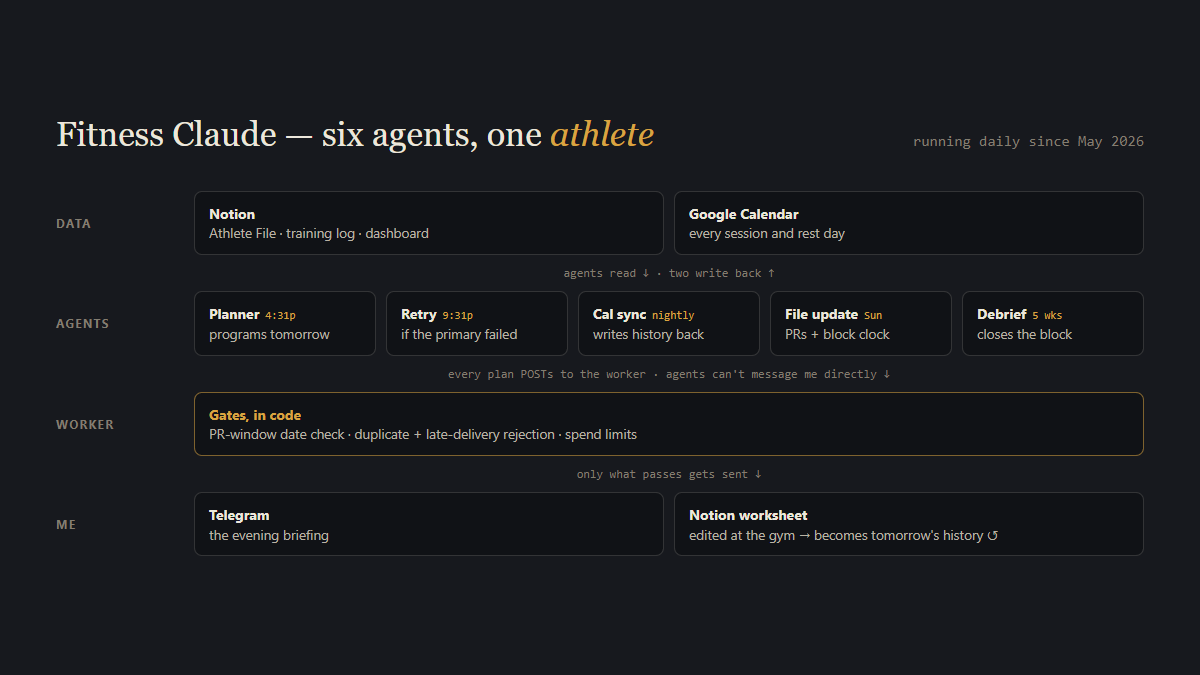
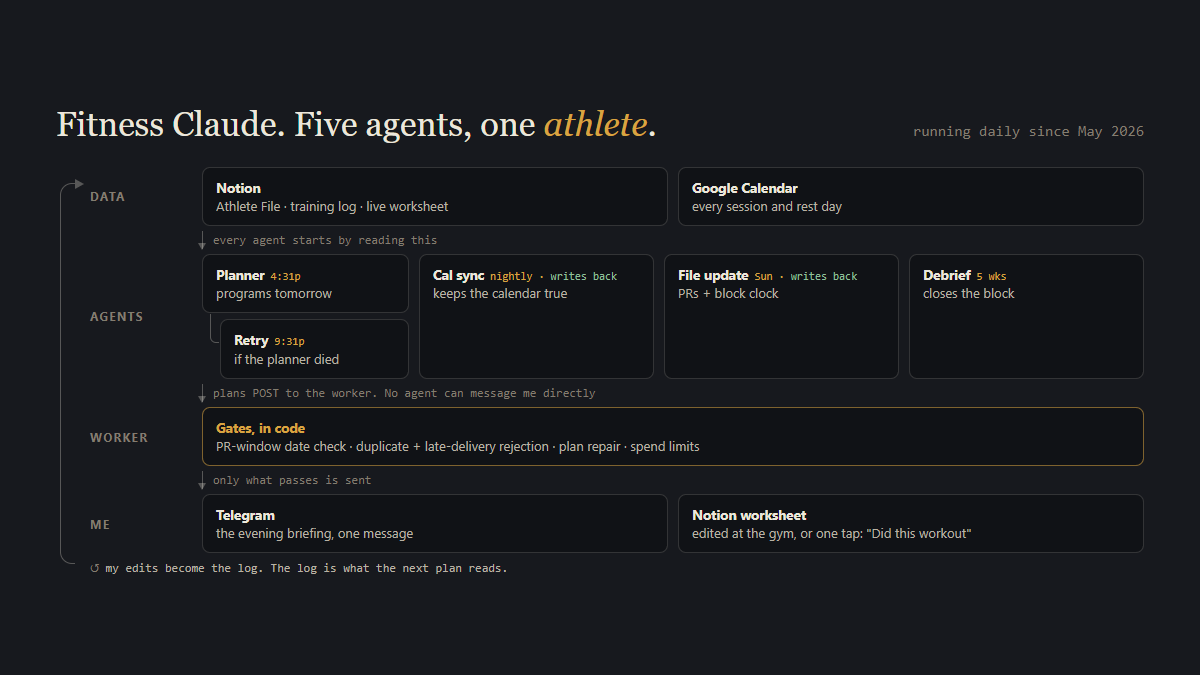
Redesign the architecture diagram, update gates and add eval notes
The diagram is now one vertical pipeline with drawn connectors and a
return rail that closes the loop from worksheet edits back to the data
layer. Retry nests under the planner. Write-back agents carry a tag on
the mark instead of a glyph. Agent count corrected from six to five.
Gates box gains plan repair. New notes cover the edit-timestamp rule
and the fifteen-scenario eval. LinkedIn architecture image regenerated
to match.

diff --git a/how-its-built.html b/how-its-built.html
@@ -4,7 +4,7 @@
 <meta charset="utf-8">
 <meta name="viewport" content="width=device-width, initial-scale=1">
 <title>How it's built · Daily Coach</title>
-<meta name="description" content="The architecture: six scheduled Claude agents, Notion as the data layer, and a worker that enforces the rules in code.">
+<meta name="description" content="The architecture: five scheduled Claude agents, Notion as the data layer, and a worker that enforces the rules in code.">
 <style>
   :root {
     --bg: #17191e;
@@ -15,6 +15,7 @@
     --apricot: #d9a441;
     --mint: #8fbf9a;
     --line: rgba(236, 231, 219, .13);
+    --rail: rgba(236, 231, 219, .28);
     --mono: ui-monospace, SFMono-Regular, "Cascadia Code", Consolas, monospace;
     --serif: Charter, "Bitstream Charter", Georgia, "Times New Roman", serif;
     --sans: -apple-system, BlinkMacSystemFont, "Segoe UI", Roboto, Helvetica, Arial, sans-serif;
@@ -29,21 +30,46 @@
   h1 { font-family: var(--serif); font-weight: 500; font-size: clamp(30px, 5.6vw, 40px); line-height: 1.18; margin-bottom: 12px; }
   .lede { font-size: 16.5px; color: var(--soft); max-width: 620px; }
 
-  .diagram { margin: 34px 0 6px; border: 1px solid var(--line); border-radius: 8px; padding: 18px; background: rgba(0,0,0,.16); }
-  .d-band { display: grid; grid-template-columns: 118px 1fr; gap: 14px; align-items: start; }
-  @media (max-width: 560px) { .d-band { grid-template-columns: 1fr; gap: 6px; } }
-  .d-label { font-size: 11px; letter-spacing: .1em; text-transform: uppercase; color: var(--dim); font-weight: 700; padding-top: 10px; }
-  .d-boxes { display: flex; flex-wrap: wrap; gap: 8px; }
-  .d-box {
-    background: var(--panel); border: 1px solid var(--line); border-radius: 6px;
-    padding: 8px 12px; font-size: 12.5px; color: var(--soft); flex: 1 1 150px; line-height: 1.45;
+  /* ── Diagram: one vertical pipeline, one return rail ─────────────── */
+  .diagram { margin: 34px 0 6px; border: 1px solid var(--line); border-radius: 8px; background: rgba(0,0,0,.16); padding: 22px 20px 22px 44px; position: relative; }
+
+  /* return rail: athlete band back up to the data band */
+  .d-rail { position: absolute; left: 15px; width: 13px; top: 46px; bottom: 64px; border: 1px solid var(--rail); border-right: 0; border-radius: 10px 0 0 10px; }
+  .d-rail::before { /* arrowhead entering the data band */
+    content: ""; position: absolute; top: -5px; right: -8px;
+    border-left: 8px solid var(--rail); border-top: 4.5px solid transparent; border-bottom: 4.5px solid transparent;
   }
+
+  .d-stage { margin: 0; }
+  .d-head { font-size: 11px; letter-spacing: .14em; text-transform: uppercase; color: var(--dim); font-weight: 700; margin-bottom: 8px; }
+  .d-head em { font-style: normal; color: var(--mint); letter-spacing: 0; text-transform: none; font-family: var(--mono); font-weight: 400; font-size: 11px; margin-left: 8px; }
+
+  .d-row { display: grid; grid-template-columns: 1fr 1fr; gap: 8px; }
+  @media (max-width: 520px) { .d-row { grid-template-columns: 1fr; } }
+  .d-box { background: var(--panel); border: 1px solid var(--line); border-radius: 6px; padding: 9px 12px; font-size: 12.5px; color: var(--soft); line-height: 1.45; }
   .d-box b { display: block; color: var(--cream); font-size: 12.5px; }
-  .d-box b small { color: var(--apricot); font-family: var(--mono); font-size: 10.5px; font-weight: 400; margin-left: 6px; }
-  .d-box.gate { border-color: rgba(217, 164, 65, .45); }
-  .d-box.gate b { color: var(--apricot); }
-  .d-arrow { text-align: center; padding: 8px 0; }
-  .d-arrow span { font-size: 11.5px; color: var(--dim); font-family: var(--mono); }
+
+  /* agents: one aligned list, schedule chip on the right */
+  .d-agents { display: grid; gap: 6px; }
+  .d-agent { display: grid; grid-template-columns: 1fr auto; gap: 4px 12px; align-items: baseline; background: var(--panel); border: 1px solid var(--line); border-radius: 6px; padding: 8px 12px; }
+  .d-agent b { color: var(--cream); font-size: 12.5px; font-weight: 600; }
+  .d-agent .desc { grid-column: 1 / -1; font-size: 12.5px; color: var(--soft); line-height: 1.45; }
+  .d-agent .when { font-family: var(--mono); font-size: 10.5px; color: var(--apricot); white-space: nowrap; }
+  .d-agent.sub { margin-left: 22px; position: relative; }
+  .d-agent.sub::before { content: ""; position: absolute; left: -13px; top: -8px; bottom: 50%; width: 9px; border-left: 1px solid var(--rail); border-bottom: 1px solid var(--rail); border-radius: 0 0 0 6px; }
+  .d-agent .tag { font-family: var(--mono); font-size: 10.5px; color: var(--mint); }
+
+  /* connectors: a drawn line + arrowhead, label beside it */
+  .d-link { display: flex; align-items: center; gap: 10px; padding: 7px 0 7px 2px; }
+  .d-link i { position: relative; width: 1px; height: 26px; background: var(--rail); display: block; flex: none; margin-left: 9px; }
+  .d-link i::after { content: ""; position: absolute; bottom: -1px; left: -4.5px; border-top: 7px solid var(--rail); border-left: 4.5px solid transparent; border-right: 4.5px solid transparent; }
+  .d-link span { font-size: 11.5px; color: var(--dim); font-family: var(--mono); line-height: 1.4; }
+
+  .d-box.gate, .d-agent.gate { border-color: rgba(217, 164, 65, .45); }
+  .gate b { color: var(--apricot); }
+
+  .d-loop { margin-top: 10px; font-family: var(--mono); font-size: 11.5px; color: var(--dim); line-height: 1.5; }
+  .d-loop b { color: var(--soft); font-weight: 400; }
 
   .notes { margin-top: 30px; }
   .notes p { font-family: var(--serif); font-size: 16px; color: var(--soft); line-height: 1.7; margin-bottom: 14px; }
@@ -65,48 +91,57 @@
 
 <header>
   <h1>How it's built</h1>
-  <p class="lede">Six scheduled Claude agents, each owning one job, coordinating through Notion. Nothing reaches the athlete's phone except through a worker that enforces the rules in code.</p>
+  <p class="lede">Five scheduled Claude agents, each owning one job, coordinating through Notion. Nothing reaches the athlete's phone except through a worker that enforces the rules in code. The whole thing is a loop. What you do today is what tomorrow's plan is built from.</p>
 </header>
 
-<div class="diagram">
-  <div class="d-band">
-    <div class="d-label">Data</div>
-    <div class="d-boxes">
-      <div class="d-box"><b>Notion</b>Athlete File · training log · dashboard</div>
+<div class="diagram" role="img" aria-label="Pipeline diagram: a Notion and Google Calendar data layer is read by five scheduled agents; their plans pass through a worker that enforces rules in code; only what passes reaches the athlete by Telegram and a Notion worksheet, and the athlete's worksheet edits flow back into the data layer.">
+  <div class="d-rail" aria-hidden="true"></div>
+
+  <div class="d-stage">
+    <div class="d-head">Data</div>
+    <div class="d-row">
+      <div class="d-box"><b>Notion</b>Athlete File · training log · live worksheet</div>
       <div class="d-box"><b>Google Calendar</b>every session and rest day</div>
     </div>
   </div>
-  <div class="d-arrow"><span>agents read ↓ · two write back ↑</span></div>
-  <div class="d-band">
-    <div class="d-label">Agents</div>
-    <div class="d-boxes">
-      <div class="d-box"><b>Daily planner<small>evening</small></b>programs tomorrow from the file + 14 days of logs</div>
-      <div class="d-box"><b>Retry<small>+5 hrs</small></b>re-runs if the primary failed</div>
-      <div class="d-box"><b>Calendar sync<small>nightly ↑</small></b>writes sessions to the calendar</div>
-      <div class="d-box"><b>File update<small>Sun ↑</small></b>rescans the week, updates PRs and the block clock</div>
-      <div class="d-box"><b>Block debrief<small>5 wks</small></b>closes out each training block</div>
+
+  <div class="d-link"><i></i><span>every agent starts by reading this</span></div>
+
+  <div class="d-stage">
+    <div class="d-head">Agents <em>writes back = direct data access</em></div>
+    <div class="d-agents">
+      <div class="d-agent"><b>Daily planner</b><span class="when">4:30 pm</span><span class="desc">programs tomorrow from the file and 14 days of logs</span></div>
+      <div class="d-agent sub"><b>Retry</b><span class="when">+5 hrs</span><span class="desc">runs the same job if the planner died quietly</span></div>
+      <div class="d-agent"><b>Calendar sync</b><span class="when">nightly · <span class="tag">writes back</span></span><span class="desc">keeps the calendar matching what was actually trained</span></div>
+      <div class="d-agent"><b>File update</b><span class="when">Sundays · <span class="tag">writes back</span></span><span class="desc">rescans the week, updates PRs and the block clock</span></div>
+      <div class="d-agent"><b>Block debrief</b><span class="when">every 5 wks</span><span class="desc">closes out each training block</span></div>
     </div>
   </div>
-  <div class="d-arrow"><span>every plan POSTs to the worker. agents can't message the athlete directly ↓</span></div>
-  <div class="d-band">
-    <div class="d-label">Worker</div>
-    <div class="d-boxes">
-      <div class="d-box gate"><b>Gates, in code</b>PR-window date check · duplicate and late-delivery rejection · spend limits</div>
+
+  <div class="d-link"><i></i><span>plans POST to the worker. No agent can message the athlete directly</span></div>
+
+  <div class="d-stage">
+    <div class="d-head">Worker</div>
+    <div class="d-agent gate"><b>Gates, in code</b><span class="when">every send</span><span class="desc">PR-window date check · duplicate and late-delivery rejection · plan repair for dropped required blocks · 7-block cap · spend limits</span></div>
+  </div>
+
+  <div class="d-link"><i></i><span>only what passes is sent</span></div>
+
+  <div class="d-stage">
+    <div class="d-head">Athlete</div>
+    <div class="d-row">
+      <div class="d-box"><b>Telegram</b>the evening briefing, one message</div>
+      <div class="d-box"><b>Notion worksheet</b>edit it at the gym, or one tap: "Did this workout"</div>
     </div>
   </div>
-  <div class="d-arrow"><span>only what passes gets sent ↓</span></div>
-  <div class="d-band">
-    <div class="d-label">Athlete</div>
-    <div class="d-boxes">
-      <div class="d-box"><b>Telegram</b>the evening briefing</div>
-      <div class="d-box"><b>Notion worksheet</b>edited at the gym. It becomes tomorrow's history. ↺</div>
-    </div>
-  </div>
+
+  <div class="d-loop">↺ <b>worksheet edits become the confirmed log. The log is what the next plan reads.</b></div>
 </div>
 
 <div class="notes">
   <p><b>Grounding over prompting.</b> The planner works from an Athlete File: profile, working weights, injury state, current training block. A second agent keeps that file current by rescanning the logs weekly. The daily calendar sync exists so the planner always knows what day it is and what was actually trained.</p>
-  <p><b>The model proposes, code disposes.</b> Safety-relevant rules are not trusted to the model. A deterministic worker re-checks PR timing against dated windows, rejects duplicate or late deliveries, and caps spend. If a plan violates a rule, the flag is stripped before anything is sent.</p>
+  <p><b>The model proposes, code disposes.</b> Safety-relevant rules are not trusted to the model. A deterministic worker re-checks PR timing against dated windows, rejects duplicate or late deliveries, restores required exercises a plan dropped, and caps spend. The model never has to guess whether the athlete trained yesterday. Edit timestamps on the worksheet answer that.</p>
+  <p><b>Tested like software.</b> Fifteen eval scenarios run before any prompt or model change ships. Each one is rebuilt from a real mistake the system once made. The suite taught an honest lesson on its first day. Every reasoning scenario passed while production failed in layers the tests never touched, like stale data and duplicate sends. New scenarios now come from real incidents, and the deterministic gates outrank the eval.</p>
   <p><b>The demo on the front page</b> runs the same programming rules against a generic profile. Its 80 input combinations are pregenerated, so the demo has zero moving parts.</p>
 </div>
 

diff --git a/assets/li-architecture.html b/assets/li-architecture.html
@@ -4,63 +4,89 @@
   body {
     width: 1200px; height: 675px; background: #17191e; color: #ece7db;
     font-family: -apple-system, BlinkMacSystemFont, "Segoe UI", Roboto, Arial, sans-serif;
-    padding: 44px 56px; overflow: hidden;
+    padding: 40px 56px 34px; overflow: hidden;
     display: flex; flex-direction: column; justify-content: center;
   }
-  .band { margin: 4px 0; }
-  .top { display: flex; justify-content: space-between; align-items: baseline; margin-bottom: 34px; }
+  .top { display: flex; justify-content: space-between; align-items: baseline; margin-bottom: 24px; }
   .title { font-family: Charter, Georgia, serif; font-size: 34px; }
   .title em { font-style: italic; color: #d9a441; }
   .sub { font-size: 15px; color: #837d70; font-family: Consolas, monospace; }
-  .band { display: grid; grid-template-columns: 120px 1fr; gap: 18px; align-items: center; }
+
+  .diag { position: relative; padding-left: 34px; }
+  .rail { position: absolute; left: 4px; top: 16px; bottom: 12px; width: 15px;
+    border: 1px solid rgba(236,231,219,.3); border-right: 0; border-radius: 12px 0 0 12px; }
+  .rail::before { content: ""; position: absolute; top: -5px; right: -9px;
+    border-left: 9px solid rgba(236,231,219,.3); border-top: 5px solid transparent; border-bottom: 5px solid transparent; }
+
+  .band { display: grid; grid-template-columns: 96px 1fr; gap: 16px; align-items: center; }
   .label { font-size: 12px; letter-spacing: .1em; text-transform: uppercase; color: #837d70; font-weight: 700; }
-  .boxes { display: flex; gap: 10px; }
+  .boxes { display: flex; gap: 10px; align-items: stretch; }
   .box {
     background: #101216; border: 1px solid rgba(236,231,219,.16); border-radius: 8px;
-    padding: 12px 14px; font-size: 13.5px; color: #b9b2a4; flex: 1; line-height: 1.4;
+    padding: 10px 13px; font-size: 13px; color: #b9b2a4; flex: 1; line-height: 1.4;
   }
-  .box b { display: block; color: #ece7db; font-size: 14px; }
+  .box b { display: block; color: #ece7db; font-size: 13.5px; }
   .box b small { color: #d9a441; font-family: Consolas, monospace; font-size: 11px; font-weight: 400; margin-left: 6px; }
+  .box b small i { font-style: normal; color: #8fbf9a; }
   .box.gate { border-color: rgba(217,164,65,.55); }
   .box.gate b { color: #d9a441; }
-  .arrow { text-align: center; padding: 7px 0 7px 138px; font-size: 12px; color: #837d70; font-family: Consolas, monospace; }
+  .pair { flex: 1; display: flex; flex-direction: column; gap: 6px; }
+  .pair .box { flex: none; }
+  .pair .box.sub2 { margin-left: 18px; position: relative; }
+  .pair .box.sub2::before { content: ""; position: absolute; left: -11px; top: -6px; bottom: 60%; width: 8px;
+    border-left: 1px solid rgba(236,231,219,.3); border-bottom: 1px solid rgba(236,231,219,.3); border-radius: 0 0 0 6px; }
+
+  .arrow { display: flex; align-items: center; gap: 10px; padding: 5px 0 5px 112px; }
+  .arrow i { position: relative; width: 1px; height: 18px; background: rgba(236,231,219,.3); display: block; flex: none; }
+  .arrow i::after { content: ""; position: absolute; bottom: -1px; left: -4.5px;
+    border-top: 7px solid rgba(236,231,219,.3); border-left: 4.5px solid transparent; border-right: 4.5px solid transparent; }
+  .arrow span { font-size: 12px; color: #837d70; font-family: Consolas, monospace; }
+
+  .loop { margin-top: 8px; font-size: 12px; color: #837d70; font-family: Consolas, monospace; }
+  .loop b { color: #b9b2a4; font-weight: 400; }
 </style></head>
 <body>
   <div class="top">
-    <div class="title">Fitness Claude — six agents, one <em>athlete</em></div>
+    <div class="title">Fitness Claude. Five agents, one <em>athlete</em>.</div>
     <div class="sub">running daily since May 2026</div>
   </div>
-  <div class="band">
-    <div class="label">Data</div>
-    <div class="boxes">
-      <div class="box"><b>Notion</b>Athlete File · training log · dashboard</div>
-      <div class="box"><b>Google Calendar</b>every session and rest day</div>
+  <div class="diag">
+    <div class="rail"></div>
+    <div class="band">
+      <div class="label">Data</div>
+      <div class="boxes">
+        <div class="box"><b>Notion</b>Athlete File · training log · live worksheet</div>
+        <div class="box"><b>Google Calendar</b>every session and rest day</div>
+      </div>
     </div>
-  </div>
-  <div class="arrow">agents read ↓ · two write back ↑</div>
-  <div class="band">
-    <div class="label">Agents</div>
-    <div class="boxes">
-      <div class="box"><b>Planner<small>4:31p</small></b>programs tomorrow</div>
-      <div class="box"><b>Retry<small>9:31p</small></b>if the primary failed</div>
-      <div class="box"><b>Cal sync<small>nightly</small></b>writes history back</div>
-      <div class="box"><b>File update<small>Sun</small></b>PRs + block clock</div>
-      <div class="box"><b>Debrief<small>5 wks</small></b>closes the block</div>
+    <div class="arrow"><i></i><span>every agent starts by reading this</span></div>
+    <div class="band">
+      <div class="label">Agents</div>
+      <div class="boxes">
+        <div class="pair">
+          <div class="box"><b>Planner<small>4:31p</small></b>programs tomorrow</div>
+          <div class="box sub2"><b>Retry<small>9:31p</small></b>if the planner died</div>
+        </div>
+        <div class="box"><b>Cal sync<small>nightly · <i>writes back</i></small></b>keeps the calendar true</div>
+        <div class="box"><b>File update<small>Sun · <i>writes back</i></small></b>PRs + block clock</div>
+        <div class="box"><b>Debrief<small>5 wks</small></b>closes the block</div>
+      </div>
     </div>
-  </div>
-  <div class="arrow">every plan POSTs to the worker · agents can't message me directly ↓</div>
-  <div class="band">
-    <div class="label">Worker</div>
-    <div class="boxes">
-      <div class="box gate"><b>Gates, in code</b>PR-window date check · duplicate + late-delivery rejection · spend limits</div>
+    <div class="arrow"><i></i><span>plans POST to the worker. No agent can message me directly</span></div>
+    <div class="band">
+      <div class="label">Worker</div>
+      <div class="boxes">
+        <div class="box gate"><b>Gates, in code</b>PR-window date check · duplicate + late-delivery rejection · plan repair · spend limits</div>
+      </div>
     </div>
-  </div>
-  <div class="arrow">only what passes gets sent ↓</div>
-  <div class="band">
-    <div class="label">Me</div>
-    <div class="boxes">
-      <div class="box"><b>Telegram</b>the evening briefing</div>
-      <div class="box"><b>Notion worksheet</b>edited at the gym → becomes tomorrow's history ↺</div>
+    <div class="arrow"><i></i><span>only what passes is sent</span></div>
+    <div class="band">
+      <div class="label">Me</div>
+      <div class="boxes">
+        <div class="box"><b>Telegram</b>the evening briefing, one message</div>
+        <div class="box"><b>Notion worksheet</b>edited at the gym, or one tap: "Did this workout"</div>
+      </div>
     </div>
+    <div class="loop">↺ <b>my edits become the log. The log is what the next plan reads.</b></div>
   </div>
 </body></html>
